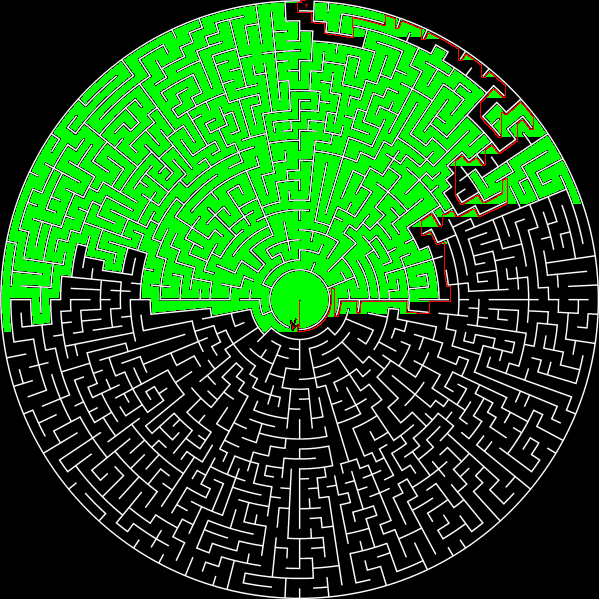
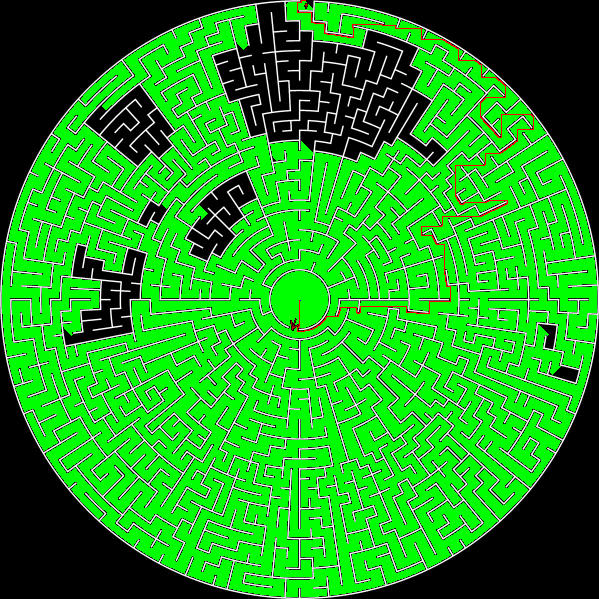
Maze_solver

diff --git a/lesson15/src/mainMaze.cpp b/lesson15/src/mainMaze.cpp
@@ -73,22 +73,22 @@ void run(int mazeNumber) {
             // TODO добавьте соотвтетсвующие этому пикселю ребра
             if (i > 0) {
                 int side_vertex_id = encodeVertex(j, i - 1, maze.rows, maze.cols);
-                int w = (color == maze.at<cv::Vec3b>(j, i - 1)) ? 0 : INF;
+                int w = (color == maze.at<cv::Vec3b>(j, i - 1)) ? 1 : INF;
                 edges_by_vertex[vertex_id].push_back(Edge(vertex_id, side_vertex_id, w));
             }
             if (j > 0) {
                 int side_vertex_id = encodeVertex(j - 1, i, maze.rows, maze.cols);
-                int w = (color == maze.at<cv::Vec3b>(j - 1, i)) ? 0 : INF;
+                int w = (color == maze.at<cv::Vec3b>(j - 1, i)) ? 1 : INF;
                 edges_by_vertex[vertex_id].push_back(Edge(vertex_id, side_vertex_id, w));
             }
             if (i < maze.cols - 1) {
                 int side_vertex_id = encodeVertex(j, i + 1, maze.rows, maze.cols);
-                int w = (color == maze.at<cv::Vec3b>(j, i + 1)) ? 0 : INF;
+                int w = (color == maze.at<cv::Vec3b>(j, i + 1)) ? 1 : INF;
                 edges_by_vertex[vertex_id].push_back(Edge(vertex_id, side_vertex_id, w));
             }
             if (j < maze.rows - 1) {
                 int side_vertex_id = encodeVertex(j + 1, i, maze.rows, maze.cols);
-                int w = (color == maze.at<cv::Vec3b>(j + 1, i)) ? 0 : INF;
+                int w = (color == maze.at<cv::Vec3b>(j + 1, i)) ? 1 : INF;
                 edges_by_vertex[vertex_id].push_back(Edge(vertex_id, side_vertex_id, w));
             }
         }
@@ -104,6 +104,9 @@ void run(int mazeNumber) {
     } else if (mazeNumber == 5) { // Лабиринт в большом разрешении, добровольный (на случай если вы реализовали быструю Дейкстру с приоритетной очередью)
         start = encodeVertex(1200, 1200, maze.rows, maze.cols);
         finish = encodeVertex(1200, 1200, maze.rows, maze.cols);
+    } else if (mazeNumber == 6) { // Первые три лабиринта очень похожи но кое чем отличаются...
+        start = encodeVertex(100, 100, maze.rows, maze.cols);
+        finish = encodeVertex(0, 102, maze.rows, maze.cols);
     } else {
         rassert(false, 324289347238920081);
     }
@@ -129,6 +132,7 @@ void run(int mazeNumber) {
         if (idx == finish) break;
 
         for (int i = 0; i < edges_by_vertex[idx].size(); i++) {
+            if (edges_by_vertex[idx][i].w == INF) continue;
             int new_path = vertices[idx].path_length + edges_by_vertex[idx][i].w;
             if (vertices[edges_by_vertex[idx][i].v].path_length > new_path) {
                 vertices[edges_by_vertex[idx][i].v].path_length = new_path;
@@ -137,7 +141,7 @@ void run(int mazeNumber) {
         }
         cv::Point2i p = decodeVertex(idx, maze.rows, maze.cols);
         window.at<cv::Vec3b>(p.y, p.x) = cv::Vec3b(0, 255, 0);
-        if (count % 1000 == 0) {
+        if (count % 100 == 0) {
             cv::imshow("Maze", window);
             cv::waitKey(1);
         }
@@ -159,6 +163,12 @@ void run(int mazeNumber) {
         for (int i = finish; i != start; i = vertices[i].father) {
             cv::Point2i p = decodeVertex(i, maze.rows, maze.cols);
             window.at<cv::Vec3b>(p.y, p.x) = cv::Vec3b(0, 0, 255);
+            std::cout << p.x << " " << p.y << std::endl;
+            if (count % 100 == 0) {
+                cv::imshow("Maze", window);
+                cv::waitKey(1);
+            }
+            count++;
         }
         cv::Point2i p = decodeVertex(start, maze.rows, maze.cols);
         window.at<cv::Vec3b>(p.y, p.x) = cv::Vec3b(255, 0, 0);
@@ -177,7 +187,7 @@ void run(int mazeNumber) {
 
 int main() {
     try {
-        int mazeNumber = 1;
+        int mazeNumber = 4;
         run(mazeNumber);
 
         return 0;
